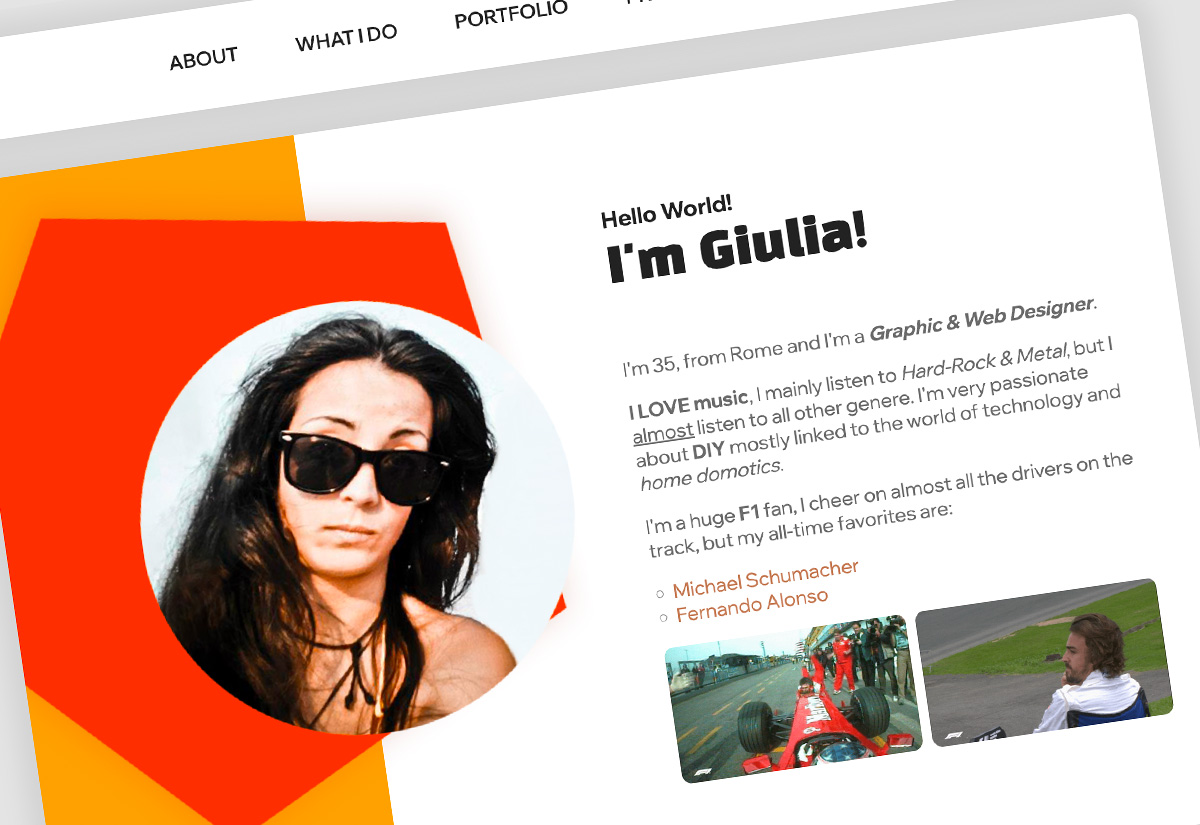
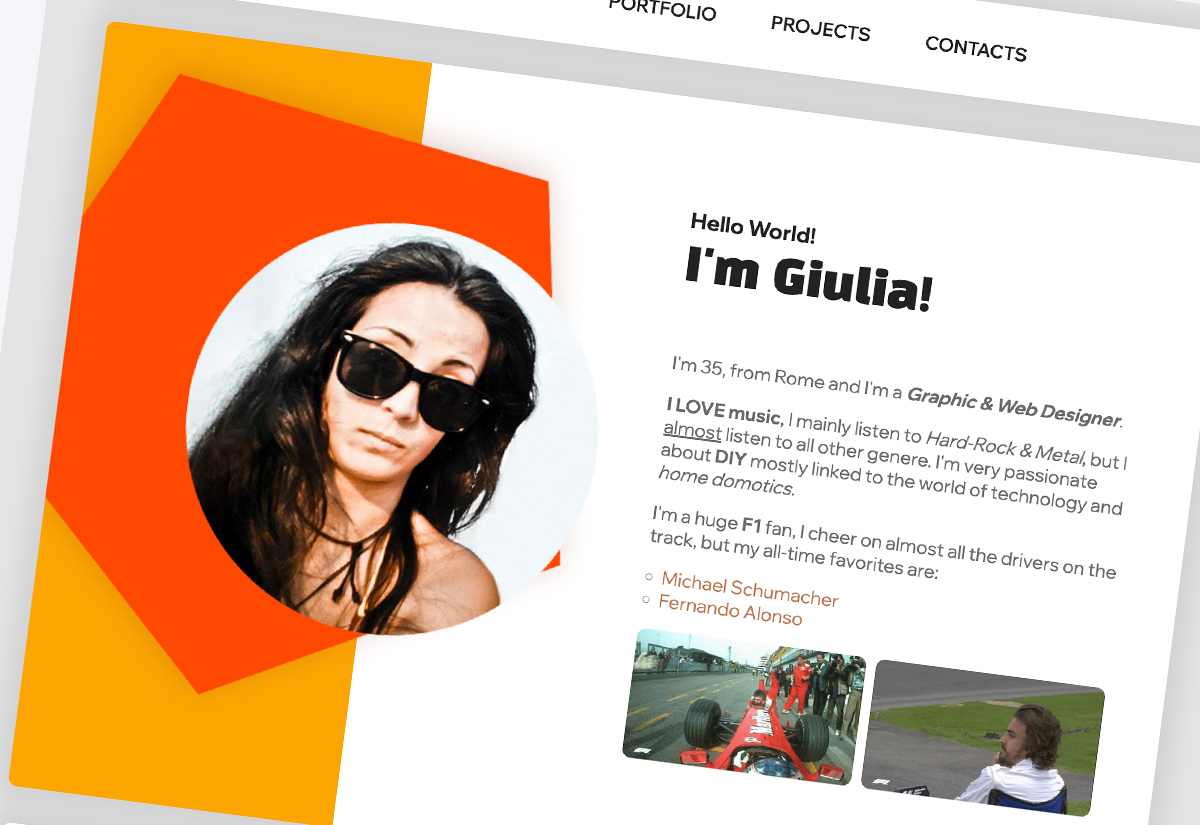
update

diff --git a/index.html b/index.html
@@ -73,7 +73,9 @@
             </div>
           </div>
         </div>
-      
+      <!-- <div class="divider d-flex justify-content-center align-items-start">
+        <img src="./images/icon/divider-2.svg" alt="graphical divider" data-inject-svg />
+      </div> -->
     </section>
 
 
@@ -83,7 +85,7 @@
         <div class="row flex-md-wrap justify-content-center align-items-center">
           <div class="col-md-9 col-lg-6 mb-5">
             <div class="text-center circle">
-              <img class="hero-img" src="./images/conserte-studio-square.jpg" alt="foto giulia">
+              <img class="hero-img" src="./images/cv-circle.png" alt="foto giulia">
             </div>
           </div>
           <div class="col-md-12 col-lg-6">
@@ -93,6 +95,16 @@
                 <div class="mb-3">Freelance</div>
                 <p>Skilled in using Photoshop and Illustrator to create visually engaging layouts, logos, and graphics. Meticulous in ensuring pixel-perfect execution of designs and maintaining consistency throughout web pages.</p>
                 <a href="#portfolio" class="red hover-arrow">Graphic & Web Design Portfolio</a>
+              </div>
+              <!-- <div class="flex-shrink-0"><span class="text-primary">March 2012 - Present</span></div> -->
+            </div>
+            <div class="d-flex flex-column flex-md-row justify-content-between mb-5">
+              <div class="flex-grow-1">
+                <h3 class="saira-bold mb-0 h1 text-uppercase">Web Design Teaching</h3>
+                <div class="mb-3">Freelance</div>
+                <p>
+                Strong ability to effectively communicate complex web design concepts to students of varying skill levels. Experience in creating engaging lesson plans and delivering interactive lectures and workshops.</p>
+                <a href="https://www.youtube.com/@AccademiaDeco/streams" class="red hover-arrow">See some live session</a>
               </div>
               <!-- <div class="flex-shrink-0"><span class="text-primary">March 2012 - Present</span></div> -->
             </div>
@@ -205,12 +217,43 @@
         </div>
         <div class="card mb-5">
           <div class="row g-0">
-            <div class="col-md-6"><img class="img-fluid" src="./images/portfolio/presentation.jpg" alt="Esercizio sito presentazione"></div>
+            <div class="col-md-6">
+              <img class="img-fluid" src="./images/portfolio/star-wars.jpg" alt="Esercizio Javascript base">
+            </div>
             <div class="col-md-6">
               <div class="card-body d-flex align-items-center justify-content-center h-100 flex-column">
-                <h3 class="card-title fw-bold text-uppercase mb-2">Presentation </h3>
-                <p class="card-text fw-light mb-4">Website with HTML+Css+Js</p>
-                <a class="btn btn-outline-dark fw-500" href="https://challenge-network-18-mar-24.github.io/giulia-montori/" target="_blank">See on GitHub</a>
+                <h3 class="card-title fw-bold text-uppercase mb-2">Star Wars</h3>
+                <p class="card-text fw-light mb-4">Javascript basic project</p>
+                <a class="btn btn-outline-dark fw-500" href="https://m-giulia.github.io/javascript" target="_blank">See on GitHub</a>
+              </div>
+            </div>
+          </div>
+        </div>
+        <div class="card mb-5">
+          <div class="row g-0">
+            <div class="col-md-6 order-1 order-md-0">
+
+              <div class="card-body d-flex align-items-center justify-content-center h-100 flex-column">
+                <h3 class="card-title fw-bold text-uppercase mb-2">Choose one of them!</h3>
+                <p class="card-text fw-light mb-4">Varius Js basic project</p>
+                <a class="btn btn-outline-dark fw-500" href="https://m-giulia.github.io/cicli/" target="_blank">See on GitHub</a>
+              </div>
+            </div>
+            <div class="col-md-6 order-0 order-md-1">
+              <img class="img-fluid" src="./images/portfolio/scegli.jpg" alt="Scegli vari esercizi">
+            </div>
+          </div>
+        </div>
+        <div class="card mb-5">
+          <div class="row g-0">
+            <div class="col-md-6">
+              <img class="img-fluid" src="./images/portfolio/gspot.jpg" alt="REACT basic project">
+            </div>
+            <div class="col-md-6">
+              <div class="card-body d-flex align-items-center justify-content-center h-100 flex-column">
+                <h3 class="card-title fw-bold text-uppercase mb-2">G Spot</h3>
+                <p class="card-text fw-light mb-4">REACT basic project</p>
+                <a class="btn btn-outline-dark fw-500" href="https://g-spot.netlify.app/" target="_blank">See on Netlify</a>
               </div>
             </div>
           </div>
@@ -219,24 +262,12 @@
           <div class="row g-0">
             <div class="col-md-6 order-1 order-md-0">
               <div class="card-body d-flex align-items-center justify-content-center h-100 flex-column">
-                <h3 class="card-title fw-bold text-uppercase mb-2">Star Wars</h3>
-                <p class="card-text fw-light mb-4">Javascript basic project</p>
-                <a class="btn btn-outline-dark fw-500" href="https://m-giulia.github.io/javascript" target="_blank">See on GitHub</a>
+                <h3 class="card-title fw-bold text-uppercase mb-2">Presentation </h3>
+                <p class="card-text fw-light mb-4">Website with HTML+Css+Js</p>
+                <a class="btn btn-outline-dark fw-500" href="https://m-giulia.github.io/giuliahtml/" target="_blank">See on GitHub</a>
               </div>
             </div>
-            <div class="col-md-6 order-0 order-md-1"><img class="img-fluid" src="./images/portfolio/star-wars.jpg" alt="Esercizio Javascript base"></div>
-          </div>
-        </div>
-        <div class="card">
-          <div class="row g-0">
-            <div class="col-md-6"><img class="img-fluid" src="./images/portfolio/scegli.jpg" alt="Scegli vari esercizi"></div>
-            <div class="col-md-6">
-              <div class="card-body d-flex align-items-center justify-content-center h-100 flex-column">
-                <h3 class="card-title fw-bold text-uppercase mb-2">Choose one of them!</h3>
-                <p class="card-text fw-light mb-4">Varius Js basic project</p>
-                <a class="btn btn-outline-dark fw-500" href="https://m-giulia.github.io/cicli/" target="_blank">See on GitHub</a>
-              </div>
-            </div>
+            <div class="col-md-6 order-0 order-md-1"><img class="img-fluid" src="./images/portfolio/presentation.jpg" alt="Esercizio sito presentazione"></div>
           </div>
         </div>
       </div> 
